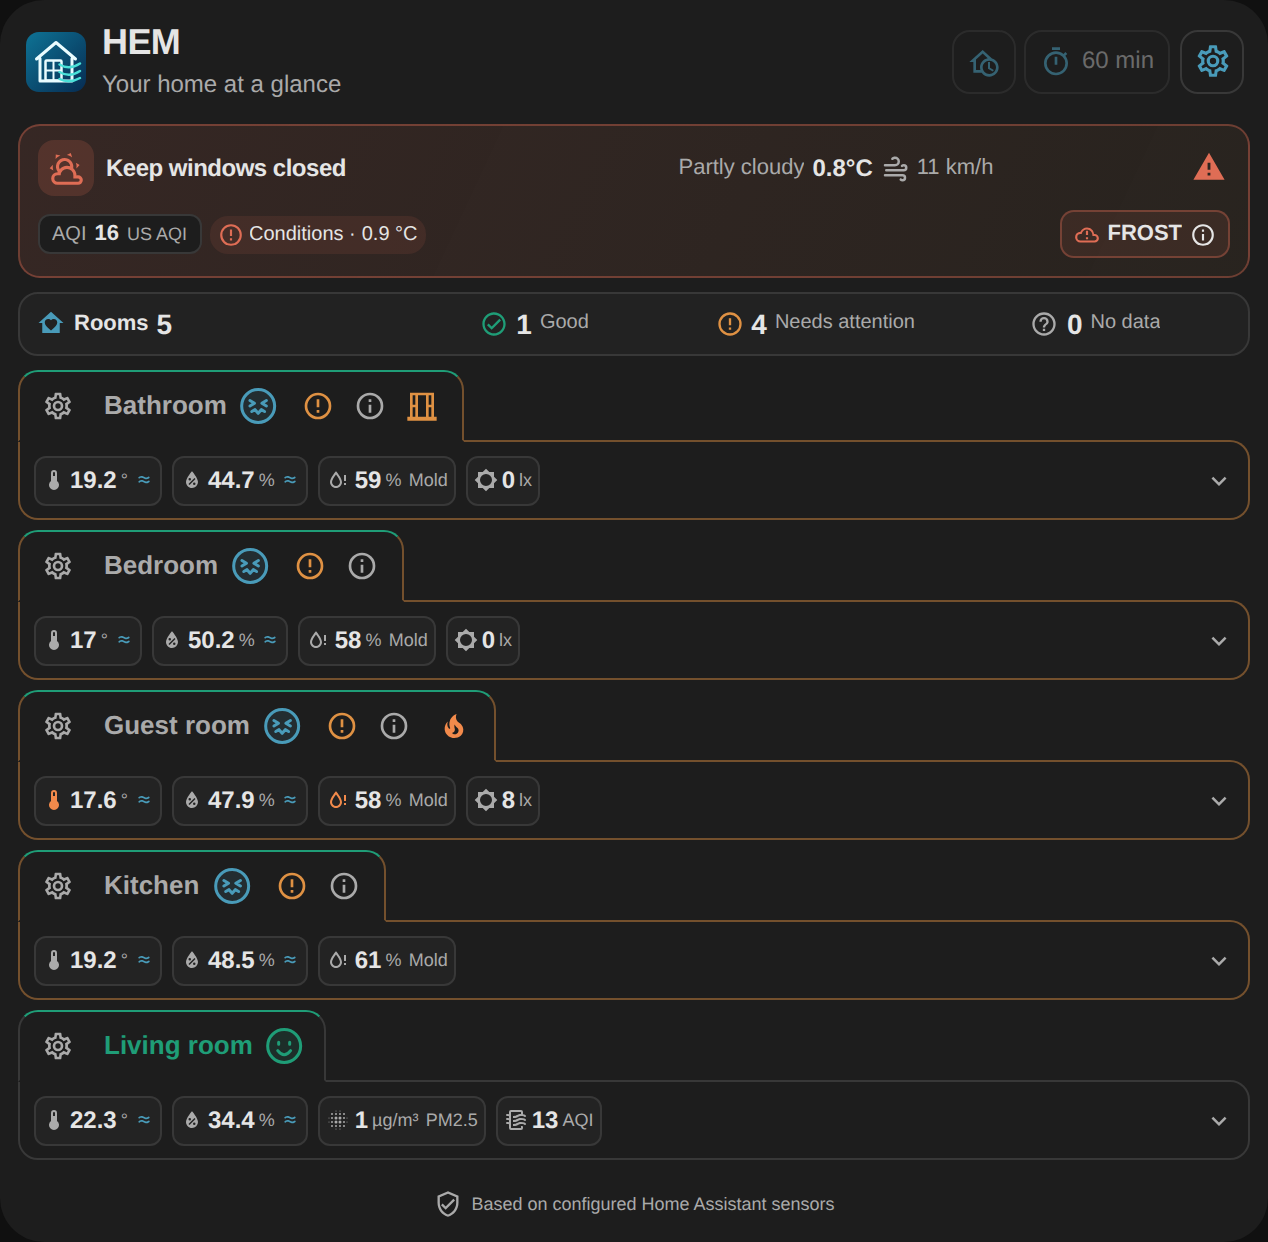
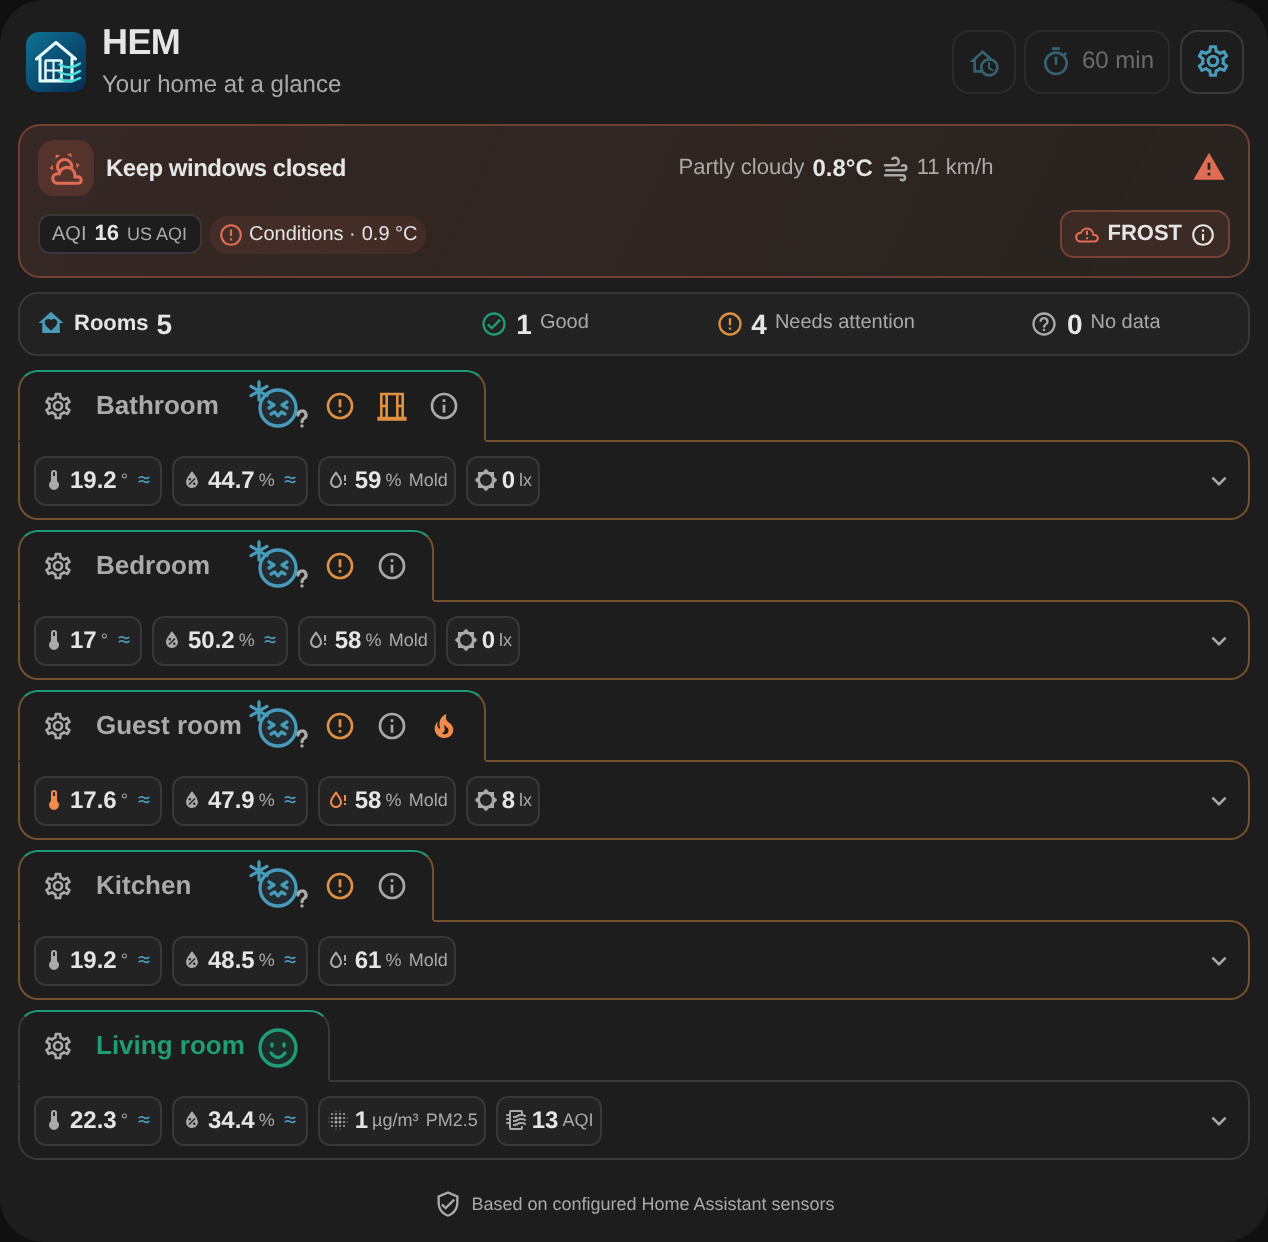
Show the five-room dashboard in the README TL;DR

diff --git a/.github/tests/test_readme_localizations.py b/.github/tests/test_readme_localizations.py
@@ -61,6 +61,10 @@ for path in sorted(PAGES.glob("README.*.md")):
     expected_links = [link if link.startswith(("#", "http:", "https:"))
                       else "../../" + link for link in english_links]
     assert localized_links == expected_links, (path, "changed Markdown link")
+    intro = page.split("](#support-and-license)", 1)[1].split('<a id="what-can-hem-do">', 1)[0]
+    overview = "../../docs/images/hem-dashboard-overview.png"
+    assert f'<a href="{overview}">' in intro, path
+    assert re.findall(r'<img src="([^"]+)"', intro) == [overview], path
     for target in re.findall(r'(?:(?:src|href)=")([^"]+)', page) + localized_links:
         if target.startswith(("#", "http:", "https:", "mailto:", "data:")):
             continue

diff --git a/.github/tests/test_readme_translation_quality.py b/.github/tests/test_readme_translation_quality.py
@@ -35,7 +35,8 @@ for code in REWRITTEN:
     data = (DIRECTORY / f"README.{code}.md").read_text(encoding="utf-8")
     assert "HEM-TRANSLATION-UNREVIEWED" not in data, code
     assert data.count("type: custom:home-environment-manager-card") == 2, code
-    assert data.count('src="../../docs/images/') == 5, code
+    gallery = data.split('<a id="see-hem-in-action"></a>', 1)[1]
+    assert gallery.count('src="../../docs/images/') == 5, code
     assert data.count('<a id="') >= 25, code
     assert "**https://github.com/Chreece/HA-Home-Environment-Manager**" in data, code
     assert "**custom_components/environment_manager**" in data, code

diff --git a/.github/tests/test_readme_user_guide.py b/.github/tests/test_readme_user_guide.py
@@ -54,7 +54,12 @@ image_paths = [
     "docs/images/hem-room-settings.svg",
     "docs/images/hem-device-settings.svg",
 ]
-assert readme.count('src="docs/images/') == len(image_paths)
+overview = image_paths[0]
+tldr = readme.split("## TL;DR\n", 1)[1].split("\n## ", 1)[0]
+assert f'<a href="{overview}">' in tldr
+assert re.findall(r'<img src="([^"]+)"', tldr) == [overview]
+gallery = readme.split("## See HEM in action\n", 1)[1].split("\n## ", 1)[0]
+assert re.findall(r'<img src="([^"]+)"', gallery) == image_paths
 for path in image_paths:
     assert f'src="{path}"' in readme, path
     assert (root / path).is_file(), path

diff --git a/docs/i18n/README.ta.md b/docs/i18n/README.ta.md
@@ -33,6 +33,12 @@
 
 Home Assistant-இல் ஏற்கெனவே உள்ள உணரிகளைப் பயன்படுத்தி ஒவ்வொரு அறையின் வெப்பநிலை, ஈரப்பதம், காற்றின் தரம் ஆகியவற்றை HEM காட்டுகிறது. உள்ளேயும் வெளியேயும் உள்ள நிலையை ஒப்பிட்டு, சன்னல்களை எப்போது திறக்கலாம் அல்லது மூடலாம் என்று பரிந்துரைக்கிறது. ஆலோசனைகளை மட்டும் பெறலாம். விரும்பினால், நீங்கள் தேர்ந்தெடுக்கும் வெப்பமூட்டிகள், குளிர்சாதனங்கள், மின்விசிறிகள் மற்றும் ஈரப்பதம் குறைக்கும் கருவிகளை HEM கட்டுப்படுத்தலாம். வீட்டில் இருக்கும் நேரம், வெளியே செல்லும் நேரம், தூங்கும் நேரம் ஆகியவற்றுக்குத் தனித்தனி இலக்குகளை அமைக்கலாம்.
 
+<p align="center">
+  <a href="../../docs/images/hem-dashboard-overview.png">
+    <img src="../../docs/images/hem-dashboard-overview.png" alt="HEM ஐந்து அறைகளில் காற்றோட்டம் ஆலோசனை மற்றும் சுற்றுச்சூழல் வாசிப்புகளுடன் வீட்டு டாஷ்போர்டு" width="640">
+  </a>
+</p>
+
 [விரிவான வழிகாட்டி](../../docs/advanced-configuration.md) · [அனைத்து அமைப்புகளும் (ஆங்கிலத்தில்)](../../docs/settings-reference.md)
 
 <a id="what-can-hem-do"></a>

diff --git a/docs/i18n/README.bn.md b/docs/i18n/README.bn.md
@@ -33,6 +33,12 @@
 
 Home Assistant-এ আপনার যে সেন্সরগুলো আছে, সেগুলো ব্যবহার করে HEM প্রতিটি ঘরের তাপমাত্রা, আর্দ্রতা ও বাতাসের মান দেখায়। ঘরের ভেতরের ও বাইরের অবস্থা তুলনা করে কখন জানালা খুলবেন বা বন্ধ করবেন সে বিষয়ে পরামর্শ দেয়। চাইলে শুধু পরামর্শ নিতে পারেন, অথবা আপনার বেছে নেওয়া হিটার, এসি, ফ্যান ও ডিহিউমিডিফায়ার নিয়ন্ত্রণের দায়িত্ব দিতে পারেন। বাড়িতে থাকা, বাইরে থাকা ও ঘুমের সময়ের জন্য আলাদা লক্ষ্য ঠিক করা যায়।
 
+<p align="center">
+  <a href="../../docs/images/hem-dashboard-overview.png">
+    <img src="../../docs/images/hem-dashboard-overview.png" alt="HEM পাঁচটি কক্ষে বায়ুচলাচল পরামর্শ এবং পরিবেশগত রিডিং সহ হোম ড্যাশবোর্ড" width="640">
+  </a>
+</p>
+
 [বিস্তারিত গাইড](../../docs/advanced-configuration.md) · [সব সেটিংস (ইংরেজিতে)](../../docs/settings-reference.md)
 
 <a id="what-can-hem-do"></a>

diff --git a/docs/i18n/README.th.md b/docs/i18n/README.th.md
@@ -33,6 +33,12 @@
 
 HEM ใช้เซ็นเซอร์ที่มีอยู่แล้วใน Home Assistant เพื่อแสดงอุณหภูมิ ความชื้น และคุณภาพอากาศของแต่ละห้อง โดยเปรียบเทียบสภาพภายในกับภายนอกบ้านเพื่อแนะนำว่าควรเปิดหรือปิดหน้าต่างเมื่อใด คุณจะใช้เฉพาะคำแนะนำ หรือให้ HEM ควบคุมเครื่องทำความร้อน เครื่องปรับอากาศ พัดลม และเครื่องลดความชื้นที่เลือกไว้ก็ได้ โดยตั้งเป้าหมายต่างกันได้เมื่ออยู่บ้าน ไม่อยู่บ้าน หรือนอนหลับ
 
+<p align="center">
+  <a href="../../docs/images/hem-dashboard-overview.png">
+    <img src="../../docs/images/hem-dashboard-overview.png" alt="HEM แดชบอร์ดบ้านที่มีคําแนะนําการลมหายากและการอ่านสิ่งแวดล้อมใน 5 ห้อง" width="640">
+  </a>
+</p>
+
 [คู่มือรายละเอียด](../../docs/advanced-configuration.md) · [การตั้งค่าทั้งหมด (ภาษาอังกฤษ)](../../docs/settings-reference.md)
 
 <a id="what-can-hem-do"></a>

diff --git a/docs/i18n/README.hi.md b/docs/i18n/README.hi.md
@@ -33,6 +33,12 @@
 
 HEM आपके Home Assistant में पहले से मौजूद सेंसरों से हर कमरे का तापमान, नमी और हवा की गुणवत्ता दिखाता है। यह अंदर और बाहर की स्थितियों की तुलना करके सुझाव देता है कि खिड़कियाँ कब खोलें या बंद करें। आप केवल सुझाव ले सकते हैं या चुने हुए हीटर, एसी, पंखे और डीह्यूमिडिफ़ायर का नियंत्रण HEM को दे सकते हैं। घर पर रहने, बाहर जाने और सोने के लिए अलग लक्ष्य तय किए जा सकते हैं।
 
+<p align="center">
+  <a href="../../docs/images/hem-dashboard-overview.png">
+    <img src="../../docs/images/hem-dashboard-overview.png" alt="HEM पांच कमरों में वेंटिलेशन परामर्श और पर्यावरण रीडिंग के साथ होम डैशबोर्ड" width="640">
+  </a>
+</p>
+
 [विस्तृत मार्गदर्शिका](../../docs/advanced-configuration.md) · [सभी सेटिंग (अंग्रेज़ी में)](../../docs/settings-reference.md)
 
 <a id="what-can-hem-do"></a>

diff --git a/docs/i18n/README.el.md b/docs/i18n/README.el.md
@@ -29,6 +29,12 @@
 
 Το HEM χρησιμοποιεί τους αισθητήρες που έχετε ήδη στο Home Assistant για να δείχνει τη θερμοκρασία, την υγρασία και την ποιότητα του αέρα σε κάθε δωμάτιο. Συγκρίνει τις συνθήκες μέσα και έξω και προτείνει πότε να ανοίξετε ή να κλείσετε τα παράθυρα. Μπορείτε να μείνετε στις συμβουλές ή να του αναθέσετε τη θέρμανση, τα κλιματιστικά, τους ανεμιστήρες και τους αφυγραντήρες που επιλέγετε, με άλλους στόχους όταν είστε σπίτι, λείπετε ή κοιμάστε.
 
+<p align="center">
+  <a href="../../docs/images/hem-dashboard-overview.png">
+    <img src="../../docs/images/hem-dashboard-overview.png" alt="Η κεντρική κάρτα του HEM με προτάσεις αερισμού και περιβαλλοντικές μετρήσεις από πέντε δωμάτια" width="640">
+  </a>
+</p>
+
 [Αναλυτικός οδηγός](../../docs/advanced-configuration.md) · [Όλες οι ρυθμίσεις (στα αγγλικά)](../../docs/settings-reference.md)
 
 <a id="what-can-hem-do"></a>

diff --git a/docs/i18n/README.ru.md b/docs/i18n/README.ru.md
@@ -33,6 +33,12 @@
 
 HEM использует датчики, уже подключённые к Home Assistant, и показывает температуру, влажность и качество воздуха в каждой комнате. Он сравнивает условия дома и на улице и подсказывает, когда открыть или закрыть окна. Можно ограничиться советами или поручить ему управление выбранными обогревателями, кондиционерами, вентиляторами и осушителями, задав разные цели для времени, когда вы дома, в отъезде или спите.
 
+<p align="center">
+  <a href="../../docs/images/hem-dashboard-overview.png">
+    <img src="../../docs/images/hem-dashboard-overview.png" alt="HEM домашняя панель управления с рекомендациями по вентиляции и показаниями окружающей среды в пяти комнатах" width="640">
+  </a>
+</p>
+
 [Подробный справочник](../../docs/advanced-configuration.md) · [Все настройки (на английском)](../../docs/settings-reference.md)
 
 <a id="what-can-hem-do"></a>

diff --git a/docs/i18n/README.uk.md b/docs/i18n/README.uk.md
@@ -33,6 +33,12 @@
 
 HEM використовує датчики, які вже підключено до Home Assistant, і показує температуру, вологість та якість повітря в кожній кімнаті. Він порівнює умови вдома й надворі та підказує, коли відчинити або зачинити вікна. Можна обмежитися порадами або доручити йому керування вибраними обігрівачами, кондиціонерами, вентиляторами й осушувачами, задавши окремі цілі для часу, коли ви вдома, у від’їзді або спите.
 
+<p align="center">
+  <a href="../../docs/images/hem-dashboard-overview.png">
+    <img src="../../docs/images/hem-dashboard-overview.png" alt="HEM домашня панель з консультаціями про вентиляцію та екологічними показами в п'яти кімнатах" width="640">
+  </a>
+</p>
+
 [Детальний провід](../../docs/advanced-configuration.md) · [Усі налаштування (англійською)](../../docs/settings-reference.md)
 
 <a id="what-can-hem-do"></a>

diff --git a/docs/i18n/README.sr.md b/docs/i18n/README.sr.md
@@ -33,6 +33,12 @@
 
 HEM користи сензоре које већ имате у систему Home Assistant и за сваку просторију приказује температуру, влажност и квалитет ваздуха. Пореди услове унутра и напољу и предлаже када да отворите или затворите прозоре. Можете користити само савете или му препустити управљање изабраним грејалицама, клима-уређајима, вентилаторима и одвлаживачима, са различитим циљним вредностима када сте код куће, одсутни или спавате.
 
+<p align="center">
+  <a href="../../docs/images/hem-dashboard-overview.png">
+    <img src="../../docs/images/hem-dashboard-overview.png" alt="HEM кућна табла са саветом за вентилацију и читањем животне средине у пет просторија" width="640">
+  </a>
+</p>
+
 [Детални водич](../../docs/advanced-configuration.md) · [Сва подешавања (на енглеском)](../../docs/settings-reference.md)
 
 <a id="what-can-hem-do"></a>

diff --git a/docs/i18n/README.bg.md b/docs/i18n/README.bg.md
@@ -33,6 +33,12 @@
 
 HEM използва наличните сензори в Home Assistant, за да показва температурата, влажността и качеството на въздуха във всяка стая. Сравнява условията вътре и навън и препоръчва кога да отворите или затворите прозорците. Можете да получавате само съвети или да му поверите избрани отоплителни уреди, климатици, вентилатори и влагоуловители с различни цели, когато сте вкъщи, навън или спите.
 
+<p align="center">
+  <a href="../../docs/images/hem-dashboard-overview.png">
+    <img src="../../docs/images/hem-dashboard-overview.png" alt="HEM домашен таблет с съвет за вентилация и екологични показания в пет стаи" width="640">
+  </a>
+</p>
+
 [Подробна ръководство](../../docs/advanced-configuration.md) · [Всички настройки (на английски)](../../docs/settings-reference.md)
 
 <a id="what-can-hem-do"></a>
